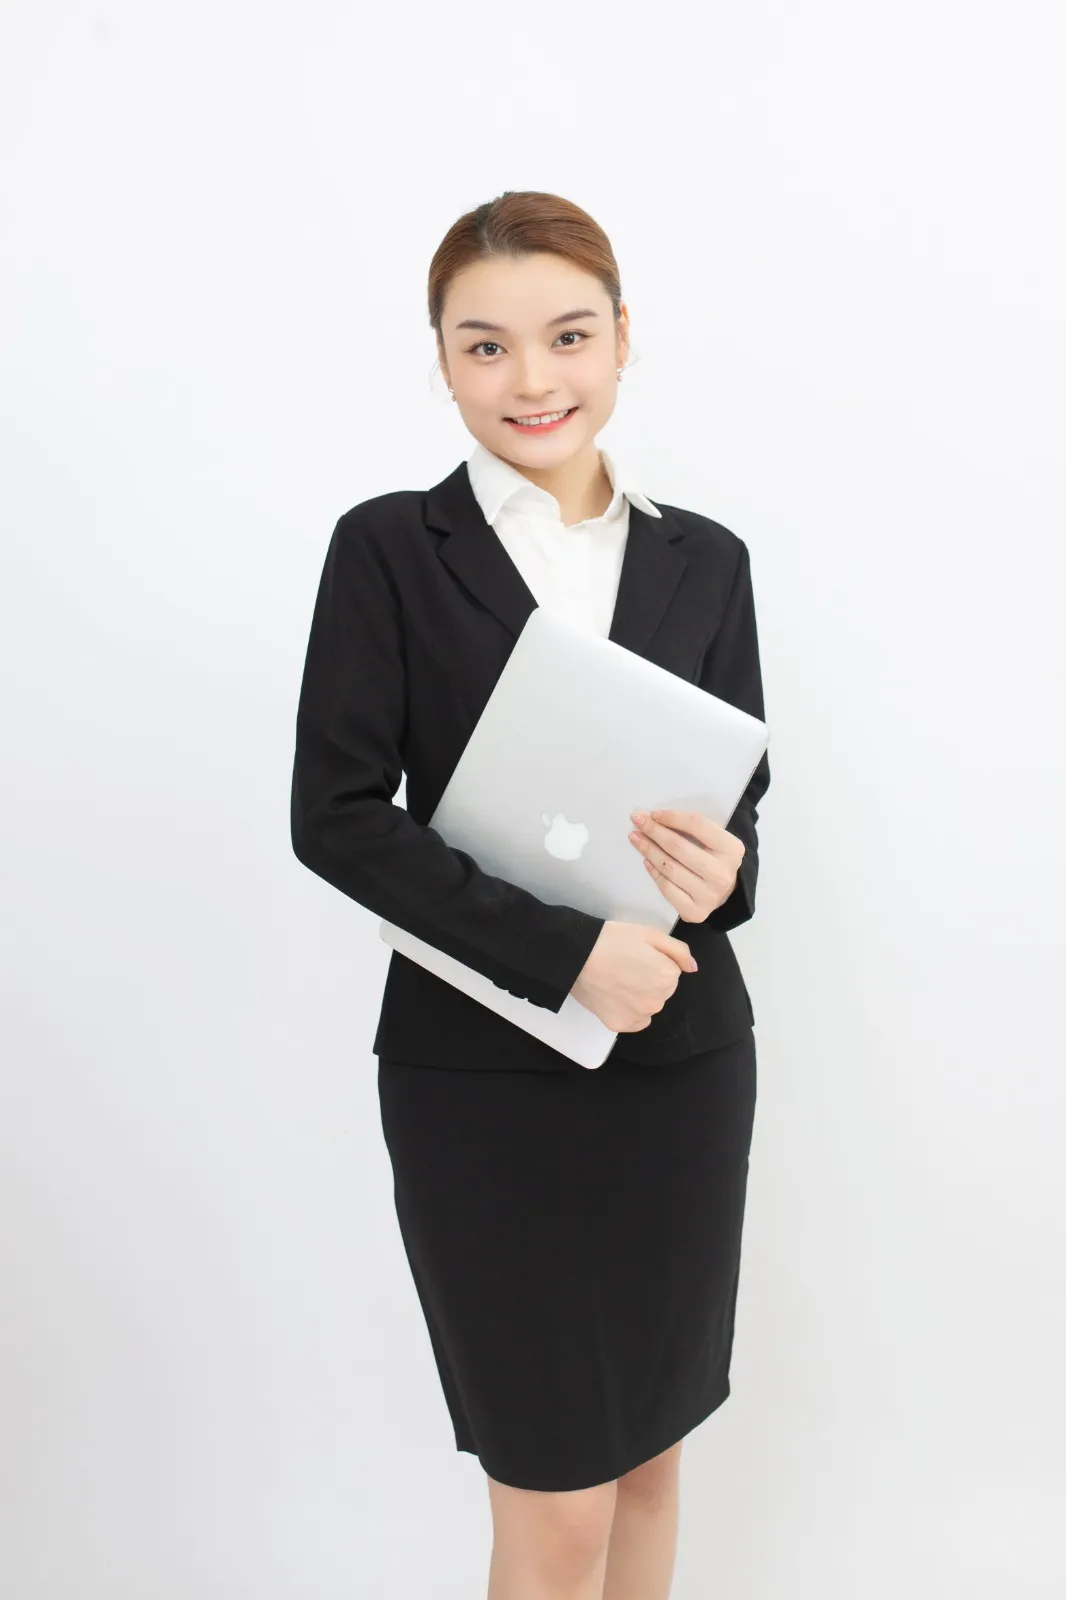
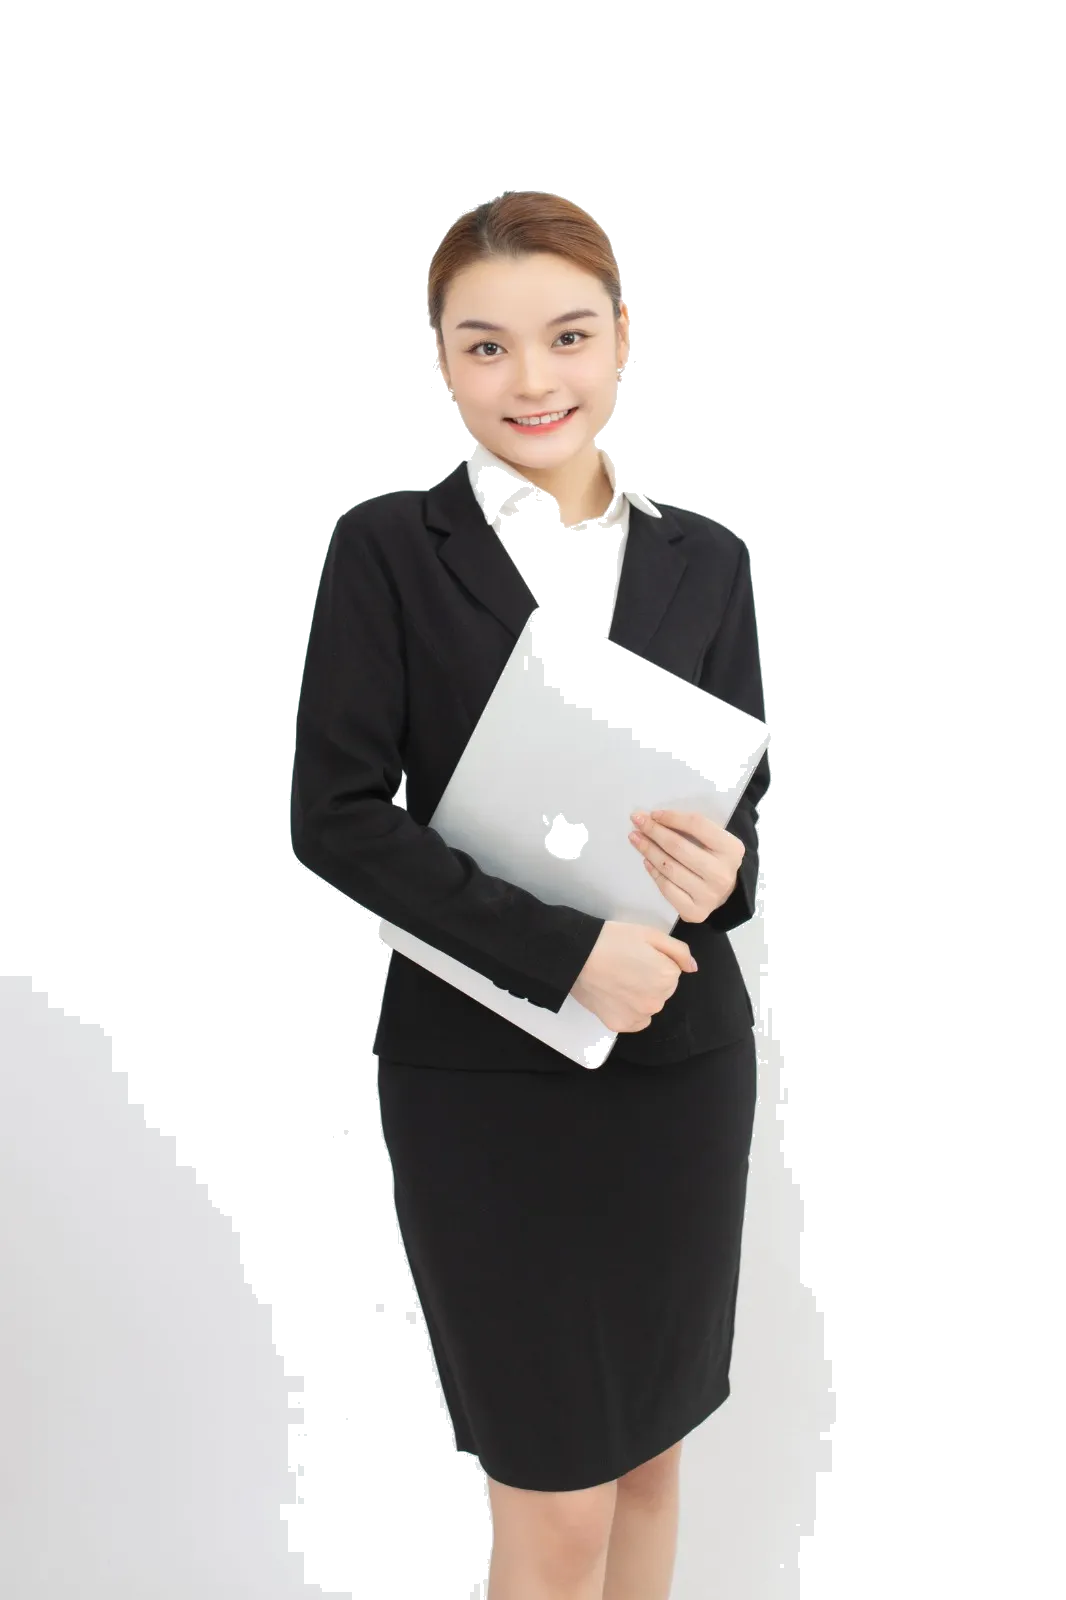
fix: hapus bg putih foto_sn.png via ImageMagick, remove mix-blend-mode

diff --git a/app/layanan/page.tsx b/app/layanan/page.tsx
@@ -216,8 +216,7 @@ export default function LayananPage() {
               alt="Supernesia Services" 
               width={900}
               height={1100}
-              className="w-auto h-[155%] object-contain object-bottom"
-              style={{ mixBlendMode: 'multiply' }}
+              className="w-auto h-[155%] object-contain object-bottom drop-shadow-[0_20px_80px_rgba(0,0,0,0.5)]"
             />
           </motion.div>
         </div>
